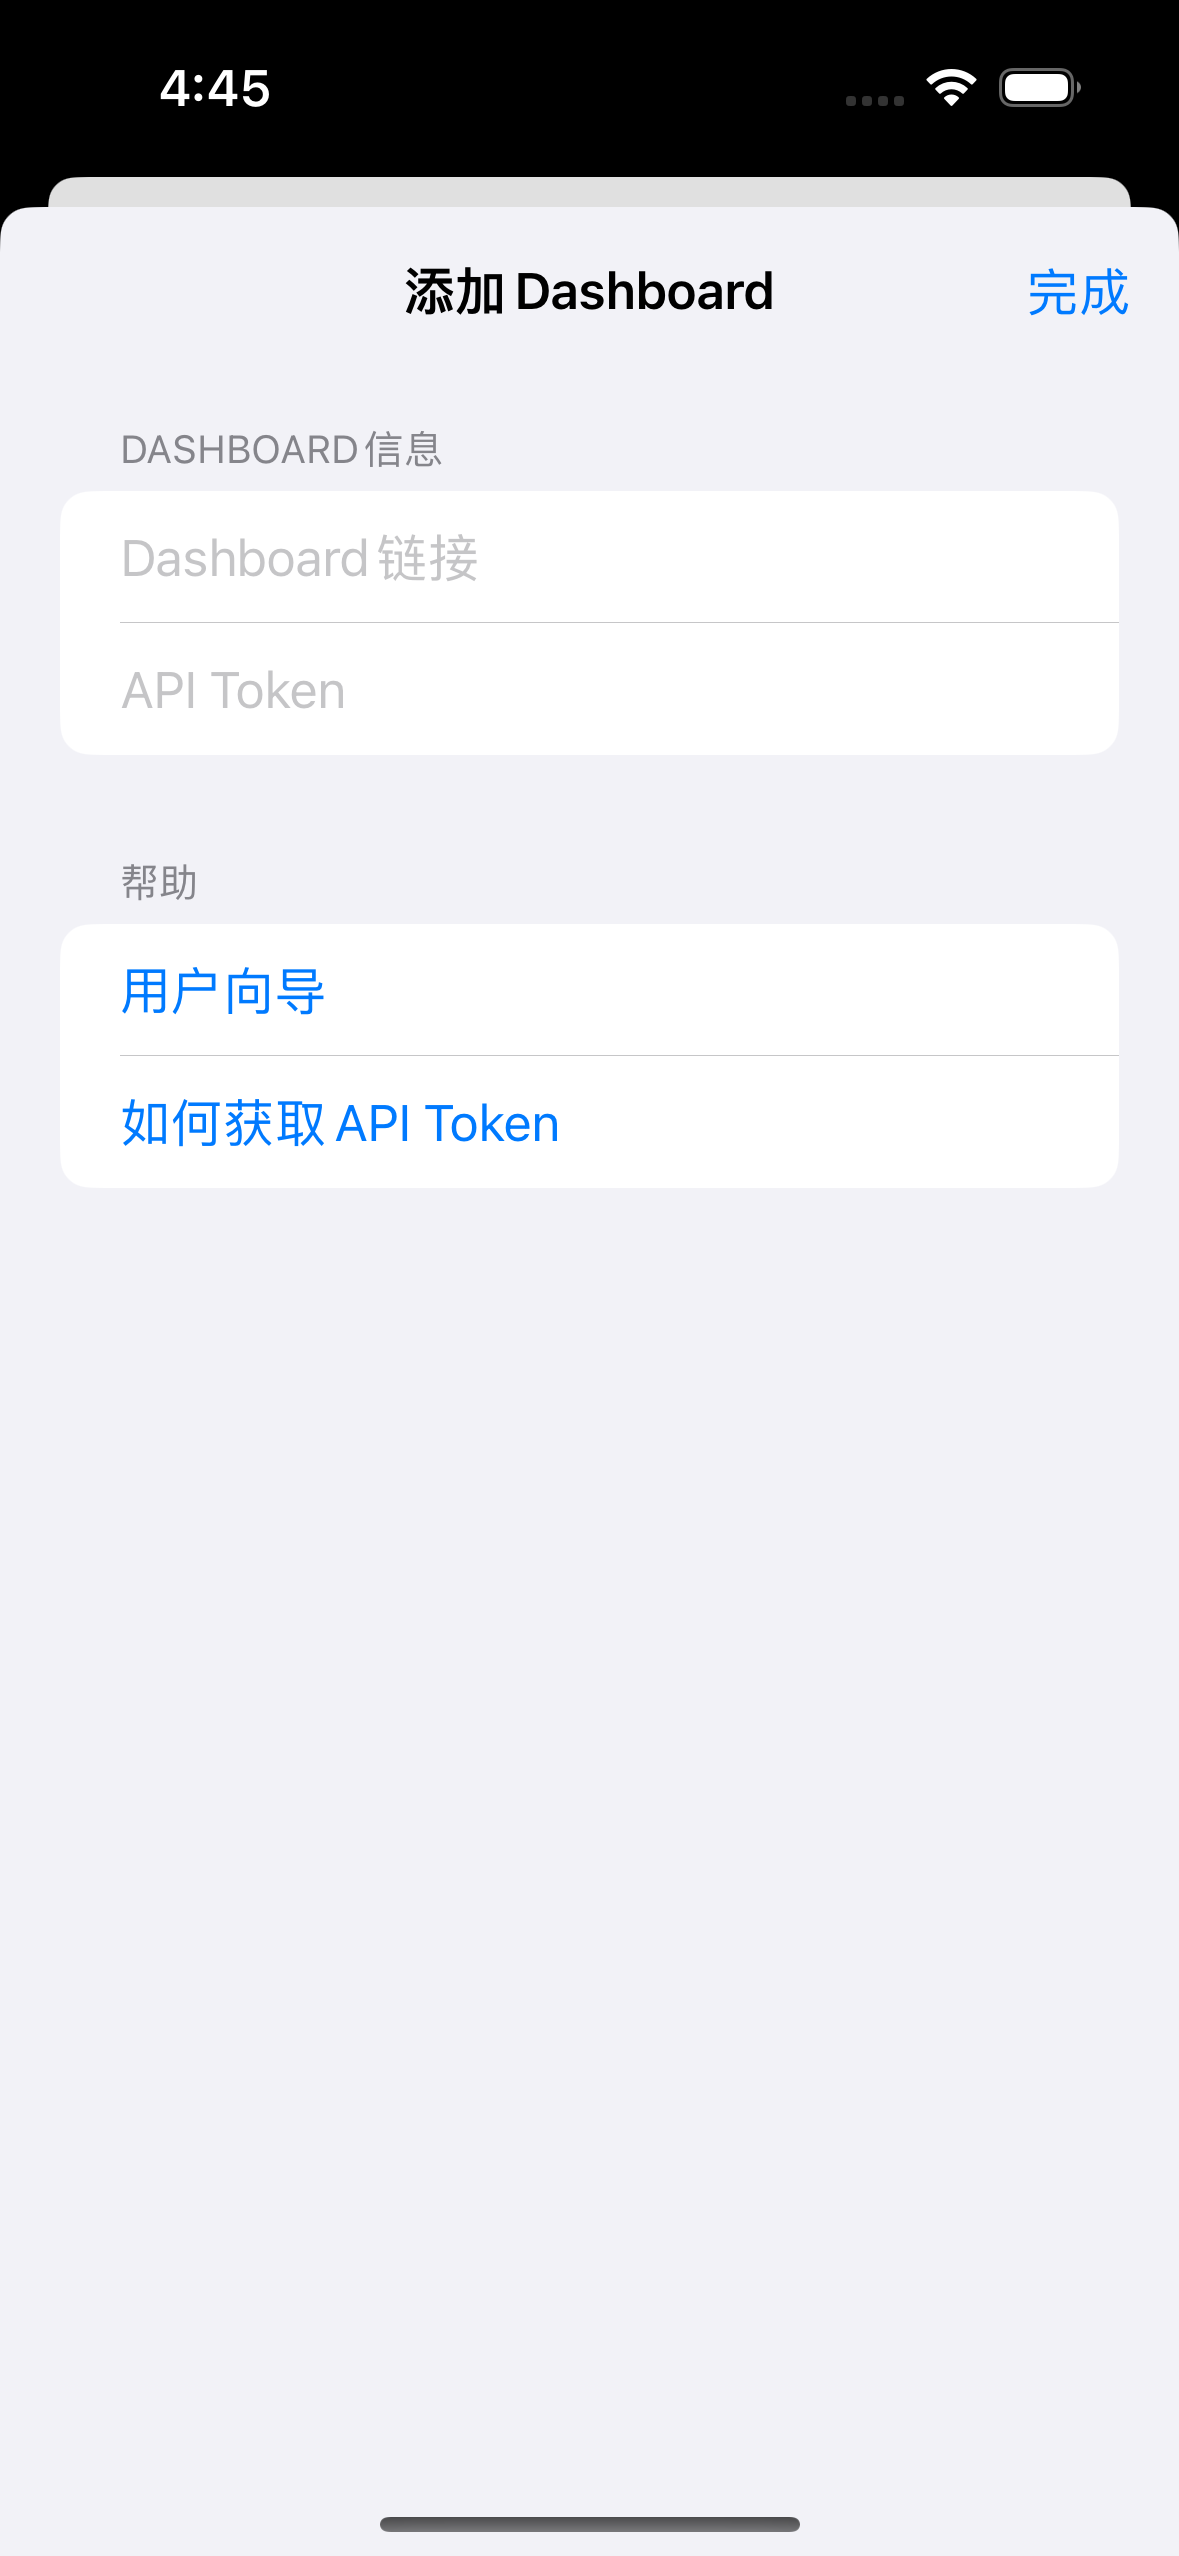
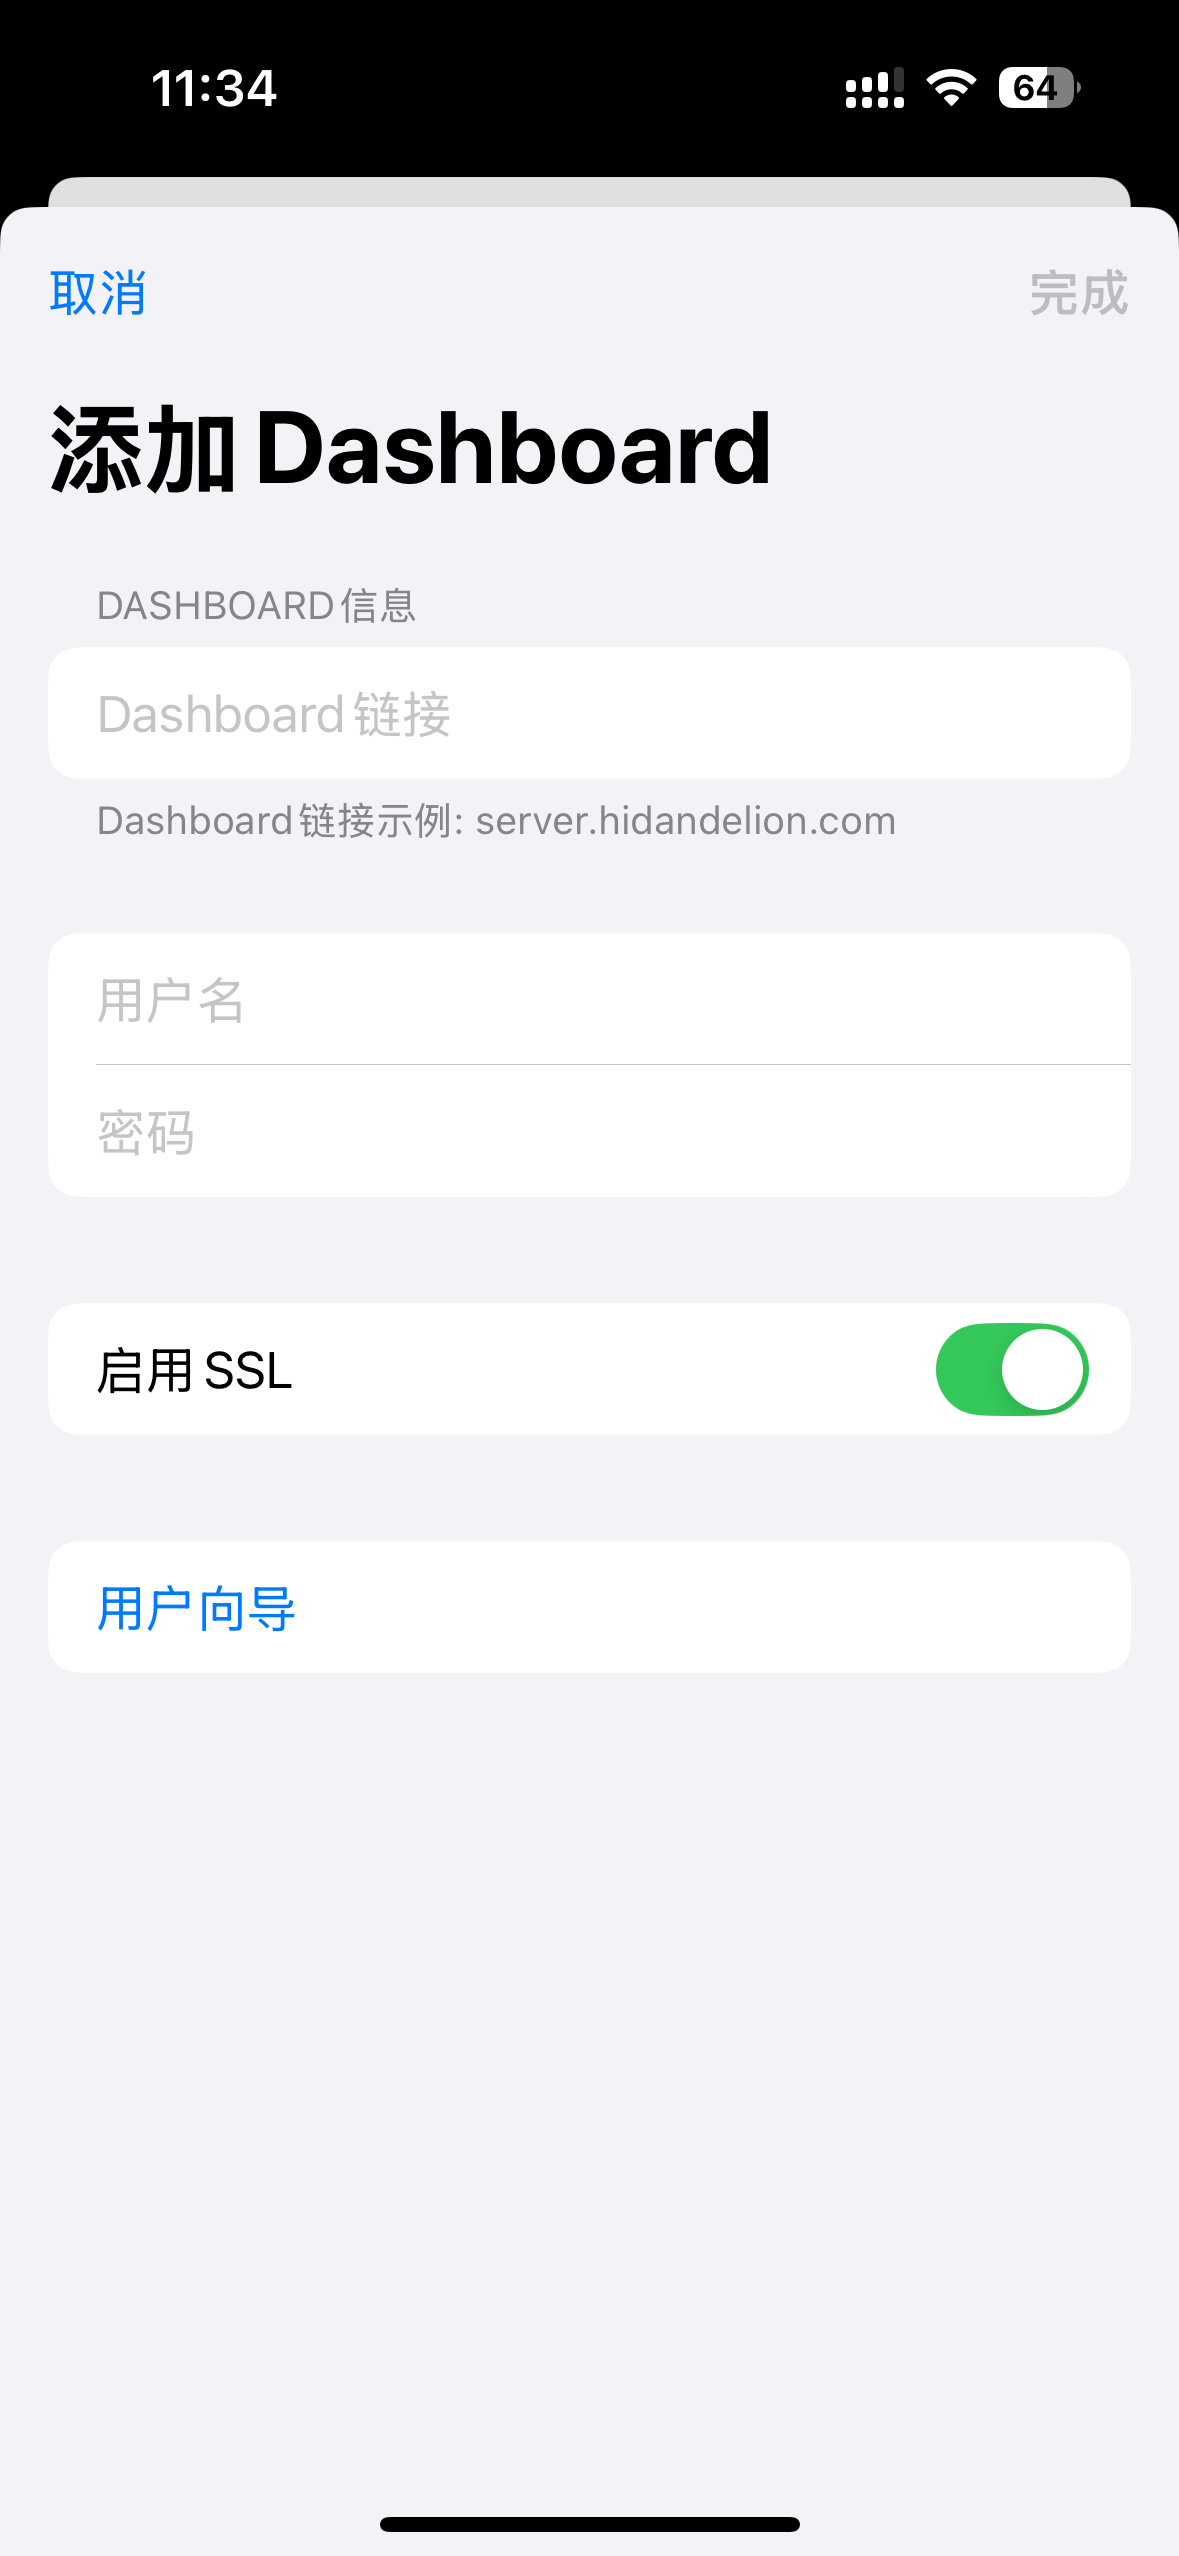
Update community project case 6 (#128)

diff --git a/docs/en_US/case/case6.md b/docs/en_US/case/case6.md
@@ -19,10 +19,10 @@ Due to **ICP Filing Policy**, Nezha Mobile is not available in **China mainland*
 :::
 
 ## TestFlight Testing Program
-[Join TestFlight Testing](https://testflight.apple.com/join/C6vTc2dN)
+[Join TestFlight Testing](https://testflight.apple.com/join/6DP2JMXT)
 
 ## Instructions
-+ Enter your Dashboard link like `server.hidandelion.com` and API token on your first use. Do not add a protocol prefix or a trailing slash to the link. API Token can be retrieved from Admin Center of Dashboard.
++ Enter your **Dashboard Link**, **username** and **password** at your first use. **Dashboard Link** looks like `server.hidandelion.com`. Do not add a protocol prefix or a trailing slash to the link. API Token can be retrieved from Admin Center of Dashboard.
 <img src="/images/case6/1_en_US.png" alt="step1" width="200"/>
 
 ## Configure Widget(Optional)

diff --git a/docs/case/case6.md b/docs/case/case6.md
@@ -19,10 +19,10 @@ App Store版本的Nezha Mobile由于**ICP备案**原因不在**中国大陆**提
 :::
 
 ## TestFlight 测试计划
-[加入 TestFlight 测试](https://testflight.apple.com/join/C6vTc2dN)
+[加入 TestFlight 测试](https://testflight.apple.com/join/6DP2JMXT)
 
 ## 使用说明
-+ 首次使用时你需要输入**Dashboard链接**和**API Token**。**Dashboard链接**形如`server.hidandelion.com`，不要添加协议头和末尾斜杠。**API Token**可通过Dashboard管理后台获取。
++ 首次使用时你需要输入**Dashboard链接**、**用户名**和**密码**。**Dashboard链接**形如`server.hidandelion.com`，不要添加协议头和末尾斜杠。
 <img src="/images/case6/1.png" alt="step1" width="200"/>
 
 ## 配置小组件（可选）
